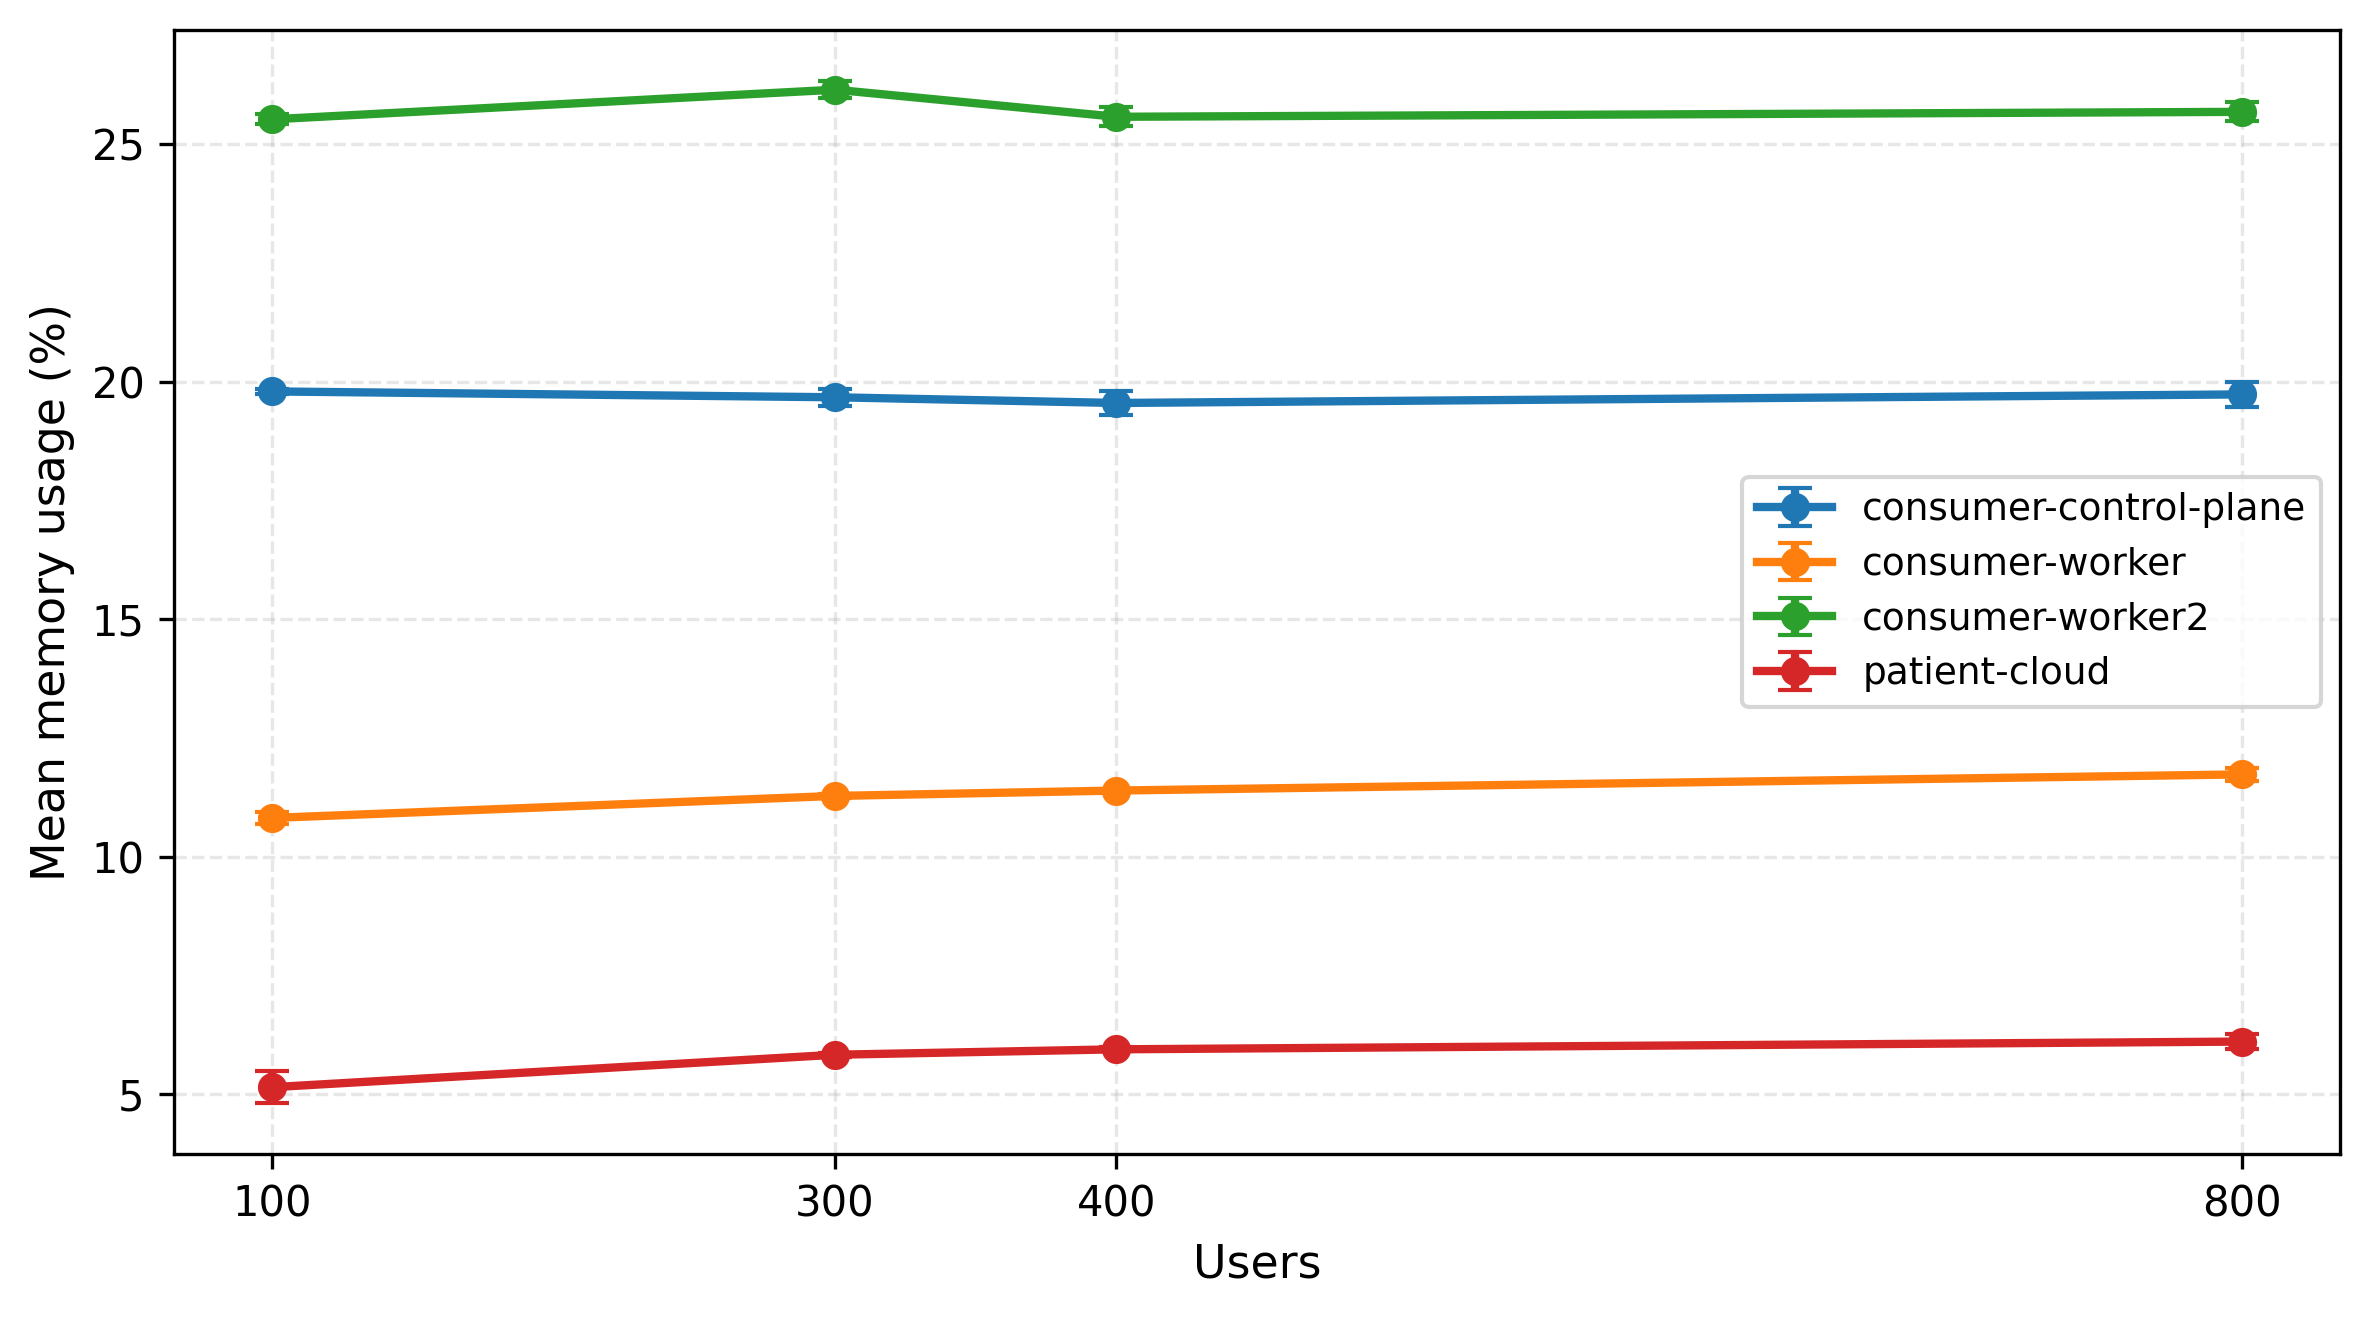
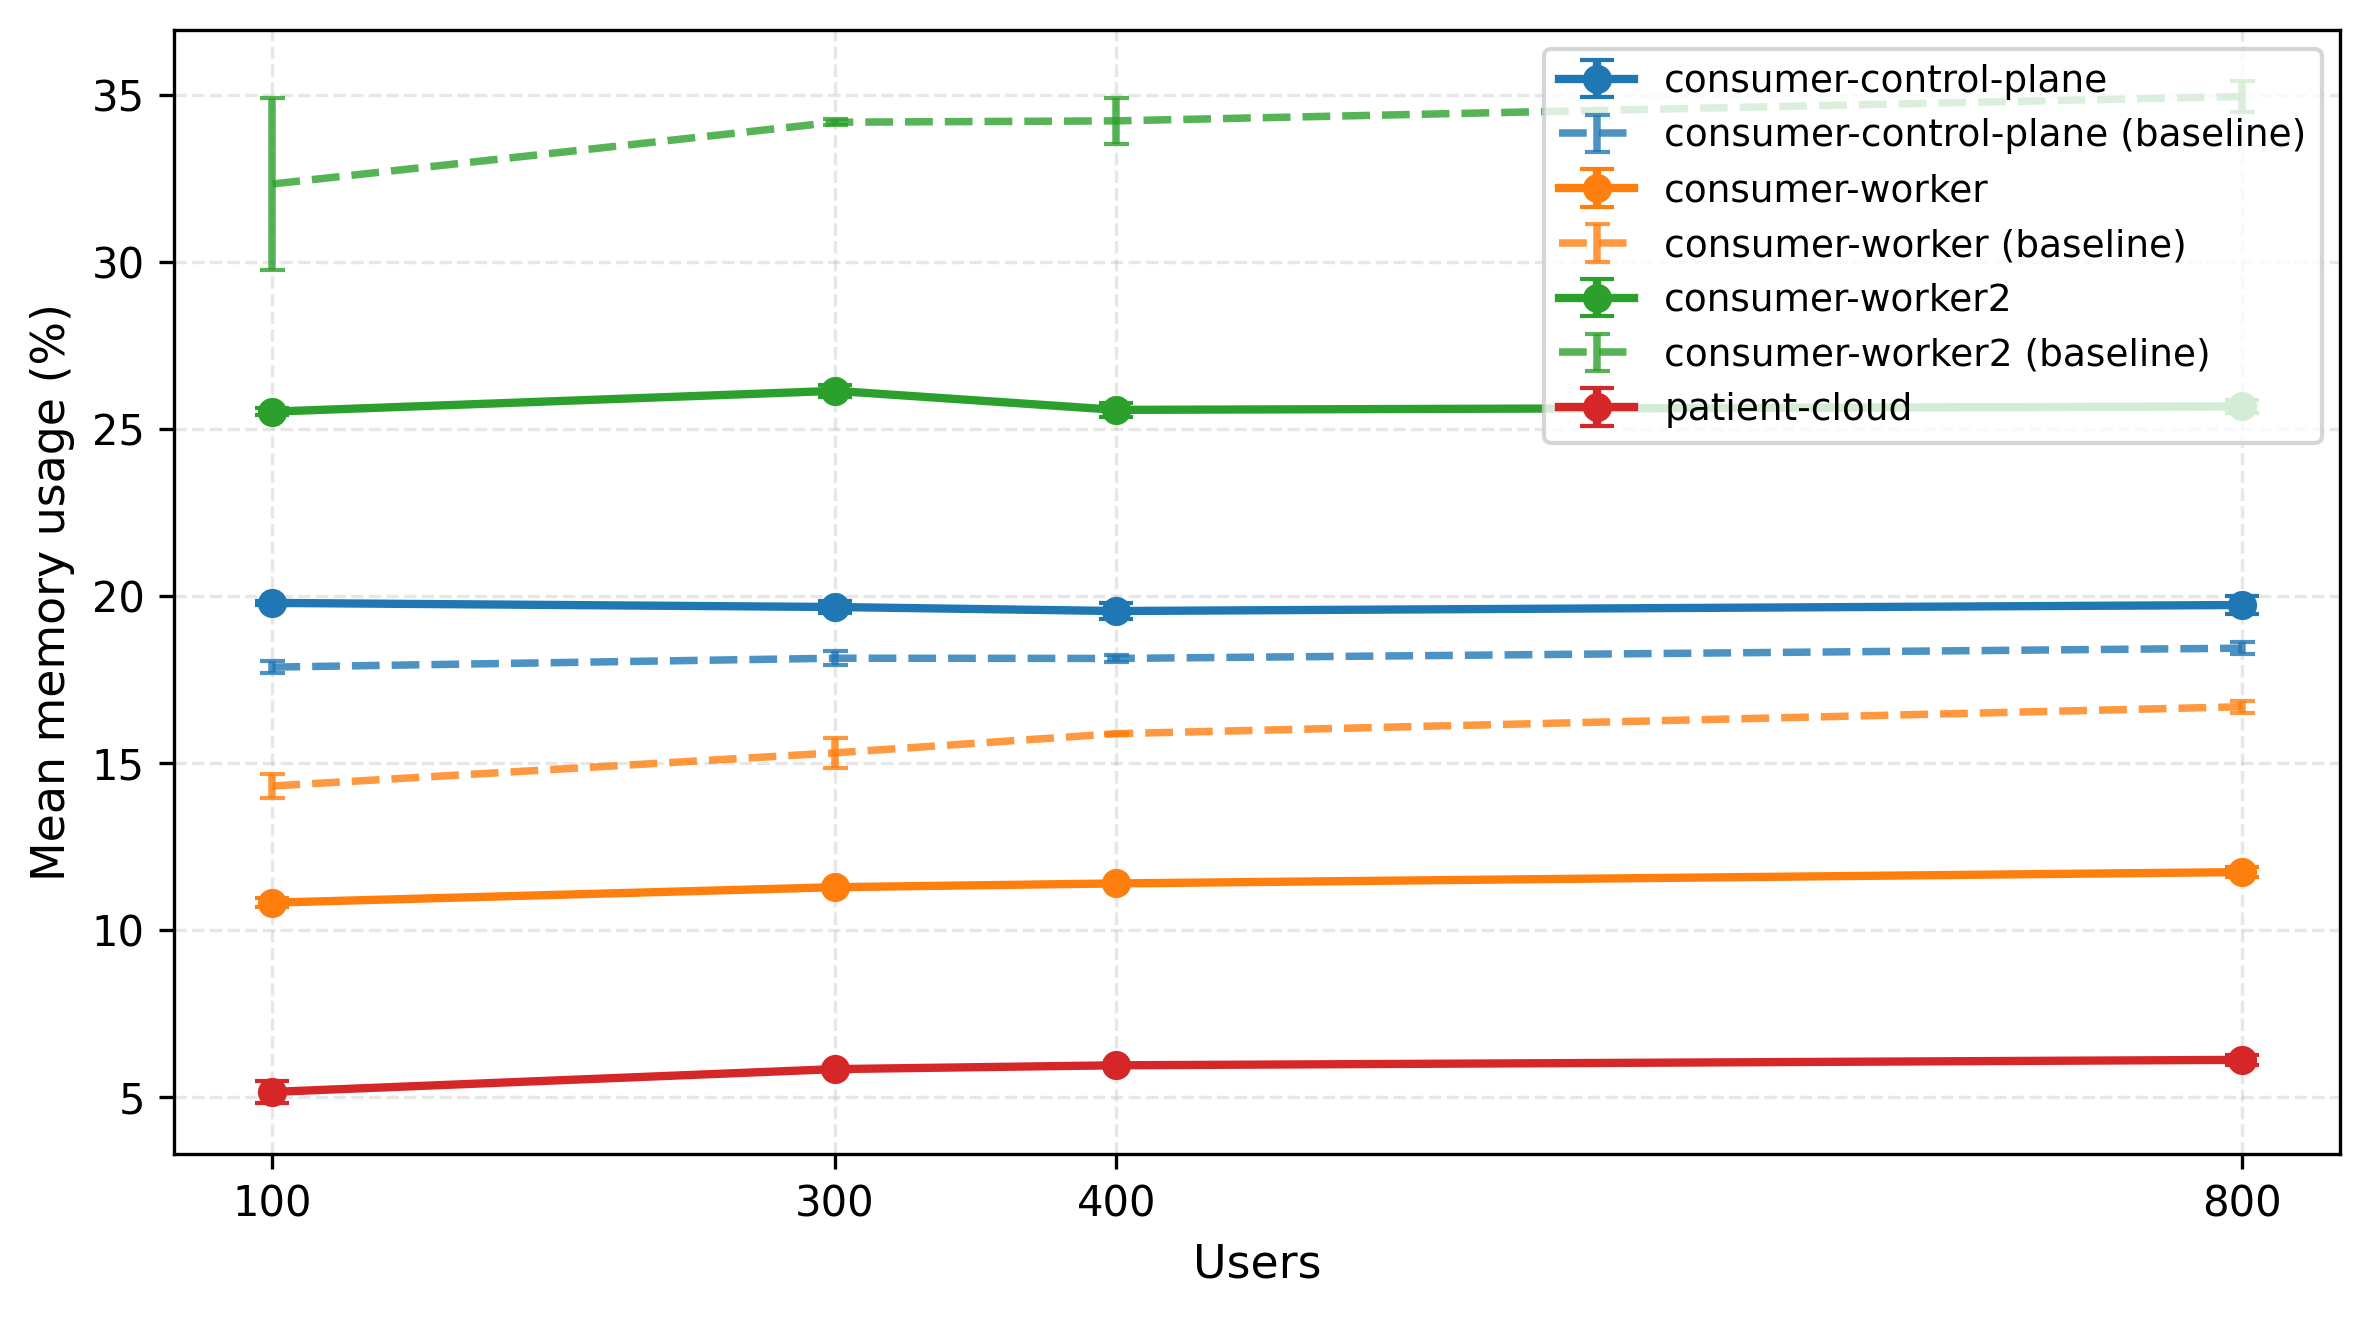
modifica plot per confronto baseline

diff --git a/scripts/analysis/plot_experiment.py b/scripts/analysis/plot_experiment.py
@@ -1,3 +1,4 @@
+
 #!/usr/bin/env python3
 
 import argparse
@@ -26,26 +27,57 @@ def save_plot(fig, output_dir, filename):
     output_dir.mkdir(parents=True, exist_ok=True)
 
     fig.tight_layout()
-    fig.savefig(output_dir / f"{filename}.png", dpi=300, bbox_inches="tight")
+    fig.savefig(
+        output_dir / f"{filename}.png",
+        dpi=300,
+        bbox_inches="tight"
+    )
     plt.close(fig)
     print(f"Generato: {filename}")
 
-def plot_metric(df, metrics, ylabel, output_dir, filename):
-    """Grafico a linee con deviazione standard."""
+
+def plot_metric(df, metrics, ylabel, output_dir,
+                filename, baseline=None):
+    """Grafico a linee con confronto opzionale baseline."""
 
     df = df.sort_values("users")
+
+    if baseline is not None:
+        baseline = baseline.sort_values("users")
+
     fig, ax = plt.subplots(figsize=(8, 4.5))
 
     for mean_col, std_col, label in metrics:
-        ax.errorbar(
+
+        # Configurazione corrente
+        line = ax.errorbar(
             df["users"],
             df[mean_col],
             yerr=df[std_col],
             marker="o",
+            linestyle="-",
             linewidth=2,
             capsize=4,
             label=label
         )
+
+        # Riutilizza esattamente lo stesso colore
+        color = line.lines[0].get_color()
+
+        # Baseline
+        if baseline is not None:
+            ax.errorbar(
+                baseline["users"],
+                baseline[mean_col],
+                yerr=baseline[std_col],
+                color=color,
+                linestyle="--",
+                marker=None,
+                linewidth=1.8,
+                capsize=3,
+                alpha=0.8,
+                label=f"{label} (baseline)"
+            )
 
     ax.set_xlabel("Users")
     ax.set_ylabel(ylabel)
@@ -55,64 +87,142 @@ def plot_metric(df, metrics, ylabel, output_dir, filename):
 
     save_plot(fig, output_dir, filename)
 
+
 # =====================================
 # METRICHE APPLICATIVE (LOCUST)
 # =====================================
 
-def plot_stats(csv_path, output_dir):
+def plot_stats(csv_path, output_dir, baseline_path=None):
+
     df = pd.read_csv(csv_path)
 
-    plot_metric(
-        df,
-        [("requests_per_sec_mean", "requests_per_sec_std", "Throughput")],
-        "Throughput (req/s)",
-        output_dir,
-        "throughput"
+    baseline = (
+        pd.read_csv(baseline_path)
+        if baseline_path else None
     )
 
     plot_metric(
         df,
         [
-            ("latency_avg_ms_mean", "latency_avg_ms_std", "Media"),
-            ("latency_p90_ms_mean", "latency_p90_ms_std", "P90"),
-            ("latency_p95_ms_mean", "latency_p95_ms_std", "P95"),
-            ("latency_p99_ms_mean", "latency_p99_ms_std", "P99")
+            (
+                "requests_per_sec_mean",
+                "requests_per_sec_std",
+                "Throughput"
+            )
+        ],
+        "Throughput (req/s)",
+        output_dir,
+        "throughput",
+        baseline
+    )
+
+    plot_metric(
+        df,
+        [
+            (
+                "latency_avg_ms_mean",
+                "latency_avg_ms_std",
+                "Media"
+            ),
+            (
+                "latency_p90_ms_mean",
+                "latency_p90_ms_std",
+                "P90"
+            ),
+            (
+                "latency_p95_ms_mean",
+                "latency_p95_ms_std",
+                "P95"
+            ),
+            (
+                "latency_p99_ms_mean",
+                "latency_p99_ms_std",
+                "P99"
+            )
         ],
         "Latency (ms)",
         output_dir,
-        "latency"
+        "latency",
+        baseline
     )
+
 
 # =====================================
 # METRICHE DEI NODI
 # =====================================
 
-def plot_nodes(csv_path, output_dir):
+def plot_nodes(csv_path, output_dir, baseline_path=None):
+
     df = pd.read_csv(csv_path)
 
-    metrics = [
-        ("cpu_avg_%_mean", "cpu_avg_%_std",
-         "Mean CPU usage (%)", "nodes_cpu"),
+    baseline = (
+        pd.read_csv(baseline_path)
+        if baseline_path else None
+    )
 
-        ("memory_avg_%_mean", "memory_avg_%_std",
-         "Mean memory usage (%)", "nodes_memory")
+    # Normalizza i nomi dei nodi
+    df["node"] = df["node"].fillna("patient-cloud")
+
+    if baseline is not None:
+        baseline["node"] = baseline["node"].fillna("patient-cloud")
+
+    metrics = [
+        (
+            "cpu_avg_%_mean",
+            "cpu_avg_%_std",
+            "Mean CPU usage (%)",
+            "nodes_cpu"
+        ),
+        (
+            "memory_avg_%_mean",
+            "memory_avg_%_std",
+            "Mean memory usage (%)",
+            "nodes_memory"
+        )
     ]
 
     for mean_col, std_col, ylabel, filename in metrics:
+
         fig, ax = plt.subplots(figsize=(8, 4.5))
 
         for node, group in df.groupby("node"):
+
             group = group.sort_values("users")
 
-            ax.errorbar(
+            # Configurazione corrente
+            line = ax.errorbar(
                 group["users"],
                 group[mean_col],
                 yerr=group[std_col],
                 marker="o",
+                linestyle="-",
                 linewidth=2,
                 capsize=4,
                 label=node
             )
+
+            color = line.lines[0].get_color()
+
+            # Baseline dello stesso nodo
+            if baseline is not None:
+
+                base_group = baseline[
+                    baseline["node"] == node
+                ].sort_values("users")
+
+                if not base_group.empty:
+                    ax.errorbar(
+                        base_group["users"],
+                        base_group[mean_col],
+                        yerr=base_group[std_col],
+                        color=color,
+                        linestyle="--",
+                        marker=None,
+                        linewidth=1.8,
+                        capsize=3,
+                        alpha=0.8,
+                        label=f"{node} (baseline)"
+                    )
 
         ax.set_xlabel("Users")
         ax.set_ylabel(ylabel)
@@ -128,6 +238,7 @@ def plot_nodes(csv_path, output_dir):
 # =====================================
 
 def plot_pods(csv_path, output_dir):
+
     df = pd.read_csv(csv_path)
 
     # Elimina il suffisso Kubernetes del nome pod
@@ -141,8 +252,6 @@ def plot_pods(csv_path, output_dir):
     df = df[df["service"] != "locust-tester"]
 
     users_levels = sorted(df["users"].unique())
-
-
     order = sorted(df["service"].unique())
 
     metrics = [
@@ -161,19 +270,23 @@ def plot_pods(csv_path, output_dir):
     ]
 
     for mean_col, std_col, ylabel, filename in metrics:
+
         fig, ax = plt.subplots(figsize=(13, 5.5))
 
         x = np.arange(len(order))
         width = 0.8 / len(users_levels)
 
         for i, users in enumerate(users_levels):
+
             data = (
                 df[df["users"] == users]
                 .set_index("service")
                 .reindex(order)
             )
 
-            offset = (i - (len(users_levels) - 1) / 2) * width
+            offset = (
+                i - (len(users_levels) - 1) / 2
+            ) * width
 
             ax.bar(
                 x + offset,
@@ -187,8 +300,18 @@ def plot_pods(csv_path, output_dir):
         ax.set_xlabel("Microservices")
         ax.set_ylabel(ylabel)
         ax.set_xticks(x)
-        ax.set_xticklabels(order, rotation=35, ha="right")
-        ax.grid(axis="y", linestyle="--", alpha=0.3)
+        ax.set_xticklabels(
+            order,
+            rotation=35,
+            ha="right"
+        )
+
+        ax.grid(
+            axis="y",
+            linestyle="--",
+            alpha=0.3
+        )
+
         ax.set_axisbelow(True)
         ax.legend(title="Carico")
 
@@ -200,6 +323,7 @@ def plot_pods(csv_path, output_dir):
 # =====================================
 
 def main():
+
     parser = argparse.ArgumentParser(
         description="Generazione grafici esperimenti Kubernetes/Liqo"
     )
@@ -207,21 +331,46 @@ def main():
     parser.add_argument("--stats", type=Path)
     parser.add_argument("--nodes", type=Path)
     parser.add_argument("--pods", type=Path)
-    parser.add_argument("--output", type=Path, required=True)
+
+    parser.add_argument("--baseline-stats", type=Path)
+    parser.add_argument("--baseline-nodes", type=Path)
+
+    parser.add_argument(
+        "--output",
+        type=Path,
+        required=True
+    )
 
     args = parser.parse_args()
 
     if args.stats:
-        plot_stats(args.stats, args.output)
+        plot_stats(
+            args.stats,
+            args.output,
+            args.baseline_stats
+        )
 
     if args.nodes:
-        plot_nodes(args.nodes, args.output)
+        plot_nodes(
+            args.nodes,
+            args.output,
+            args.baseline_nodes
+        )
 
     if args.pods:
-        plot_pods(args.pods, args.output)
+        plot_pods(
+            args.pods,
+            args.output
+        )
 
-    if not any([args.stats, args.nodes, args.pods]):
-        parser.error("Specificare almeno un CSV: --stats, --nodes o --pods")
+    if not any([
+        args.stats,
+        args.nodes,
+        args.pods
+    ]):
+        parser.error(
+            "Specificare almeno un CSV: --stats, --nodes o --pods"
+        )
 
 
 if __name__ == "__main__":

diff --git a/scripts/analysis/table_nodes_summary.py b/scripts/analysis/table_nodes_summary.py
@@ -71,7 +71,8 @@ df = pd.read_csv(args.csv_file)
 node_order = [
     "consumer-control-plane",
     "consumer-worker",
-    "consumer-worker2"
+    "consumer-worker2",
+    "patient-cloud"
 ]
 
 df["node"] = pd.Categorical(
